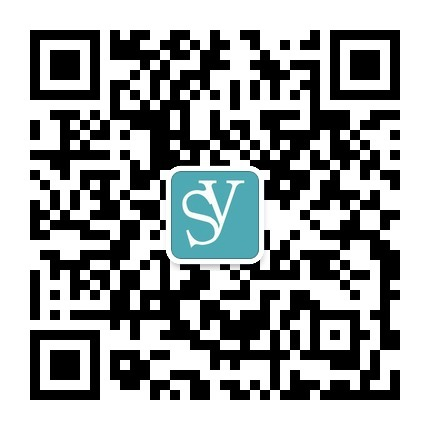
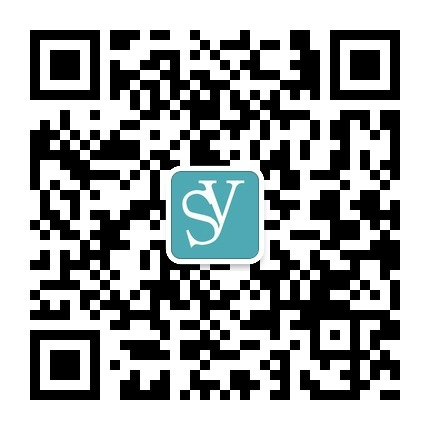
change img add phoneNum

Changed region(s): [[0.0605, 0.0605, 0.9372, 0.9372]]

diff --git a/community/templates/base.html b/community/templates/base.html
@@ -14,18 +14,17 @@
 		<link rel="apple-touch-icon-precomposed" href="/static/img/touch-icon-iphone.png" />
 		
 		<meta name="viewport" content="width=device-width, initial-scale=1.0, maximum-scale=1.0, user-scalable=no">
-		<script src='/static/js/jquery-1.10.2.min.js'></script>
-		<script src='/static/js/juicer.js'></script>
 		<link rel='stylesheet' href='/static/css/font-awesome-4.0.3/css/font-awesome.css'>
 		<link rel='stylesheet' href='/static/css/bootstrap-3.0.3-dist/dist/css/bootstrap.min.css'>
 		<link rel='stylesheet' href='/static/css/bootstrap-3.0.3-dist/dist/css/bootstrap-theme.min.css'>
 		<link rel='stylesheet' href='/static/css/Stashy/Stashy.min.css'>
 		<link rel='stylesheet' href='/static/css/pages.css'>
 		<link rel='stylesheet' href='/static/css/style.css'>
+		<script src='/static/js/jquery-1.10.2.min.js'></script>
+		<script src='/static/js/juicer.js'></script>
 		<script src='/static/js/bootstrap-3.0.3-dist/dist/js/bootstrap.min.js'></script>
 		<script src='/static/js/Stashy/Stashy.min.js'></script>
 		<script src='/static/js/history.js'></script>
-
 		<script src='/static/js/jquery.hotkeys.js'></script>
 		<script src='/static/js/bootstrap-wysiwyg.js'></script>
 		
@@ -234,7 +233,9 @@
 		</div>
 		{% block footer %}
 			<div class="fullSize" style="height:100px;text-align:center;margin-top:50px;">
+				<hr>
 				<small>Copyright Shareyan.com All rights reserved. <a style='color:black;text-decoration:none;' href="http://www.miibeian.gov.cn">京ICP备13029912号</a></small>
+				<br><small>联系电话:15655430787</small>
 			</div>
 		{% endblock footer %}
 		

diff --git a/community/templates/community.html b/community/templates/community.html
@@ -596,10 +596,10 @@ function viewPost(){
 			</div>
 		</div>
 		<a class='btn btn-default btn-sm' data-edit='unlink' title='删除超链接'><i class=' fa fa-cut'></i></a>
-		<div class='btn-group' style='width:40px;'>
+		<!--<div class='btn-group' style='width:40px;'>
 			<a href='#' onclick="$(this).parent().find('input').trigger('click');return false;" class='btn btn-default btn-sm' id='pictureBtn'><i class='fa fa-picture-o'></i></a>
 			<input class='hide' type='file' accept='image/*' data-role='magic-overlay' data-target='#pictureBtn' data-edit='insertImage' />
-		</div>
+		</div>-->
 		
 		<div class='btn-group'>
 			<a class='btn btn-default btn-sm' data-edit='undo' title='撤销 (Ctrl/Cmd+Z)'><i class=' fa fa-undo'></i></a>
